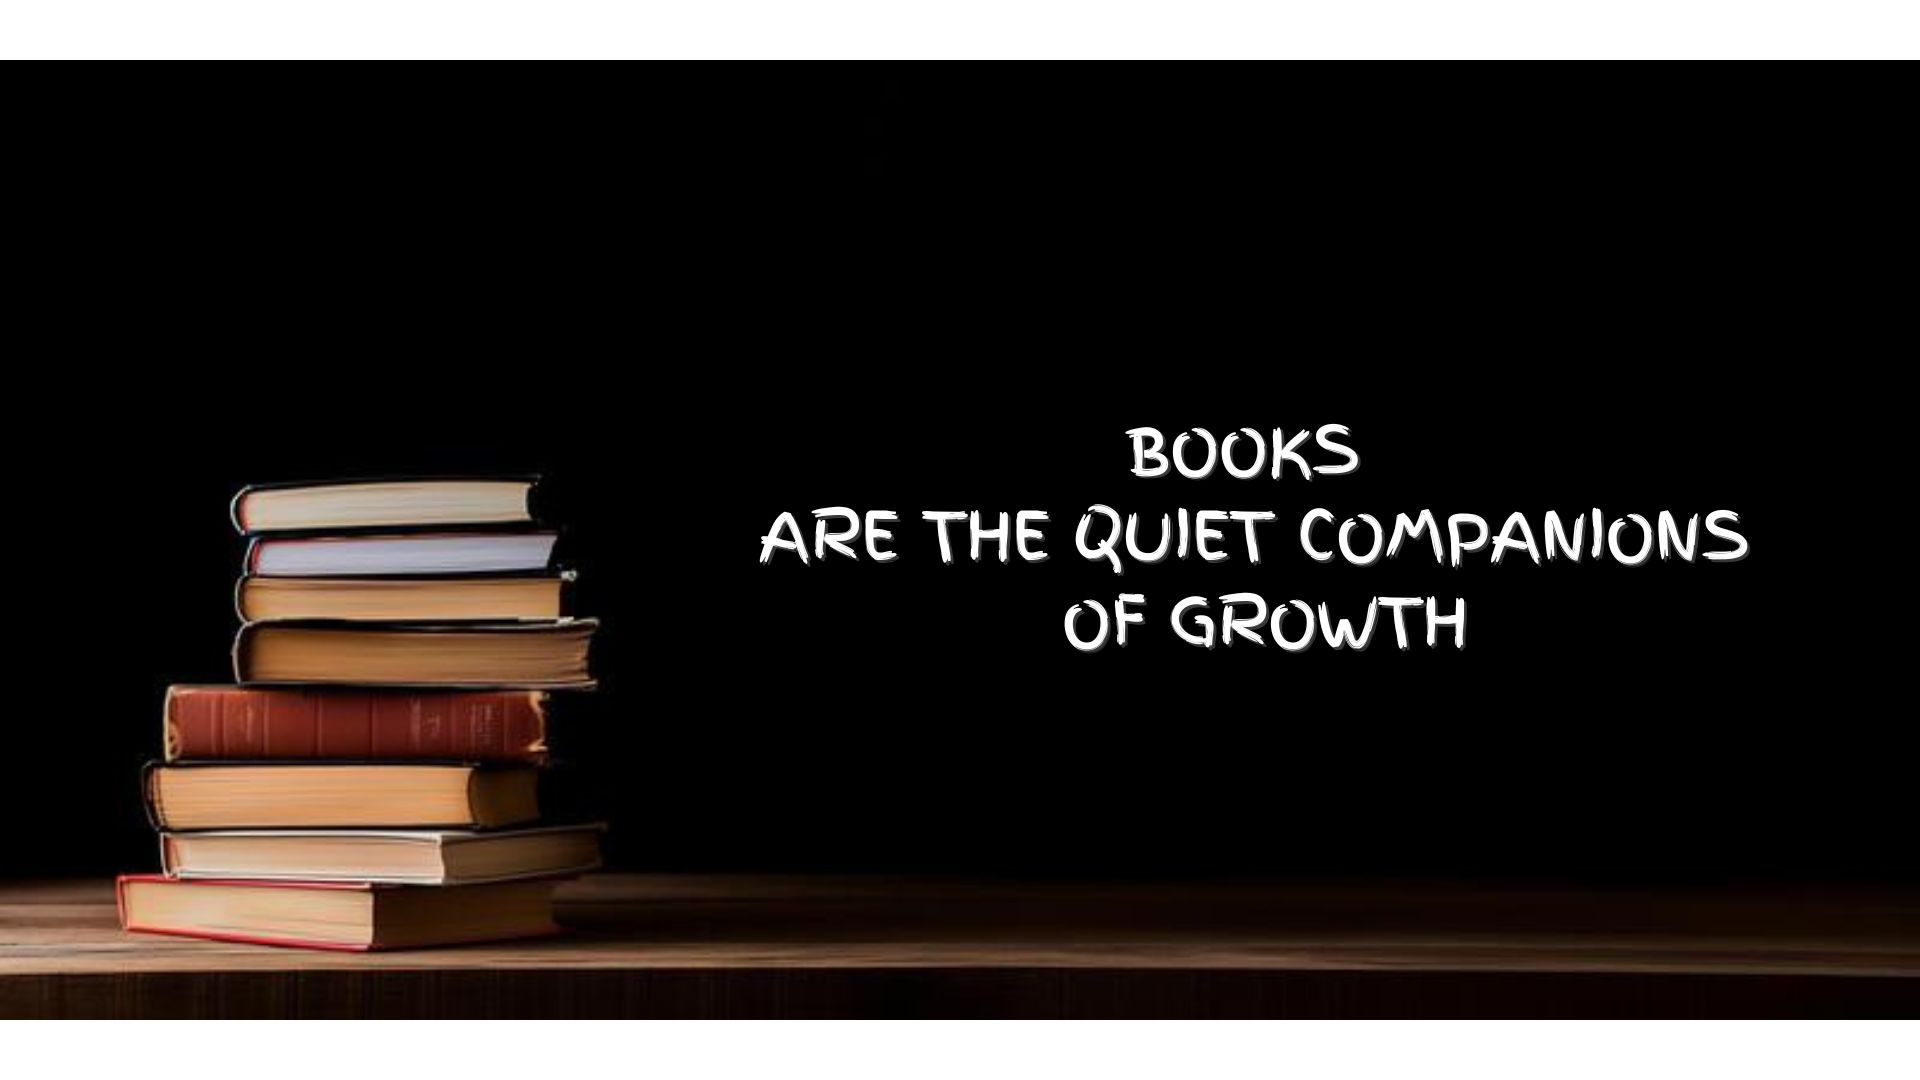
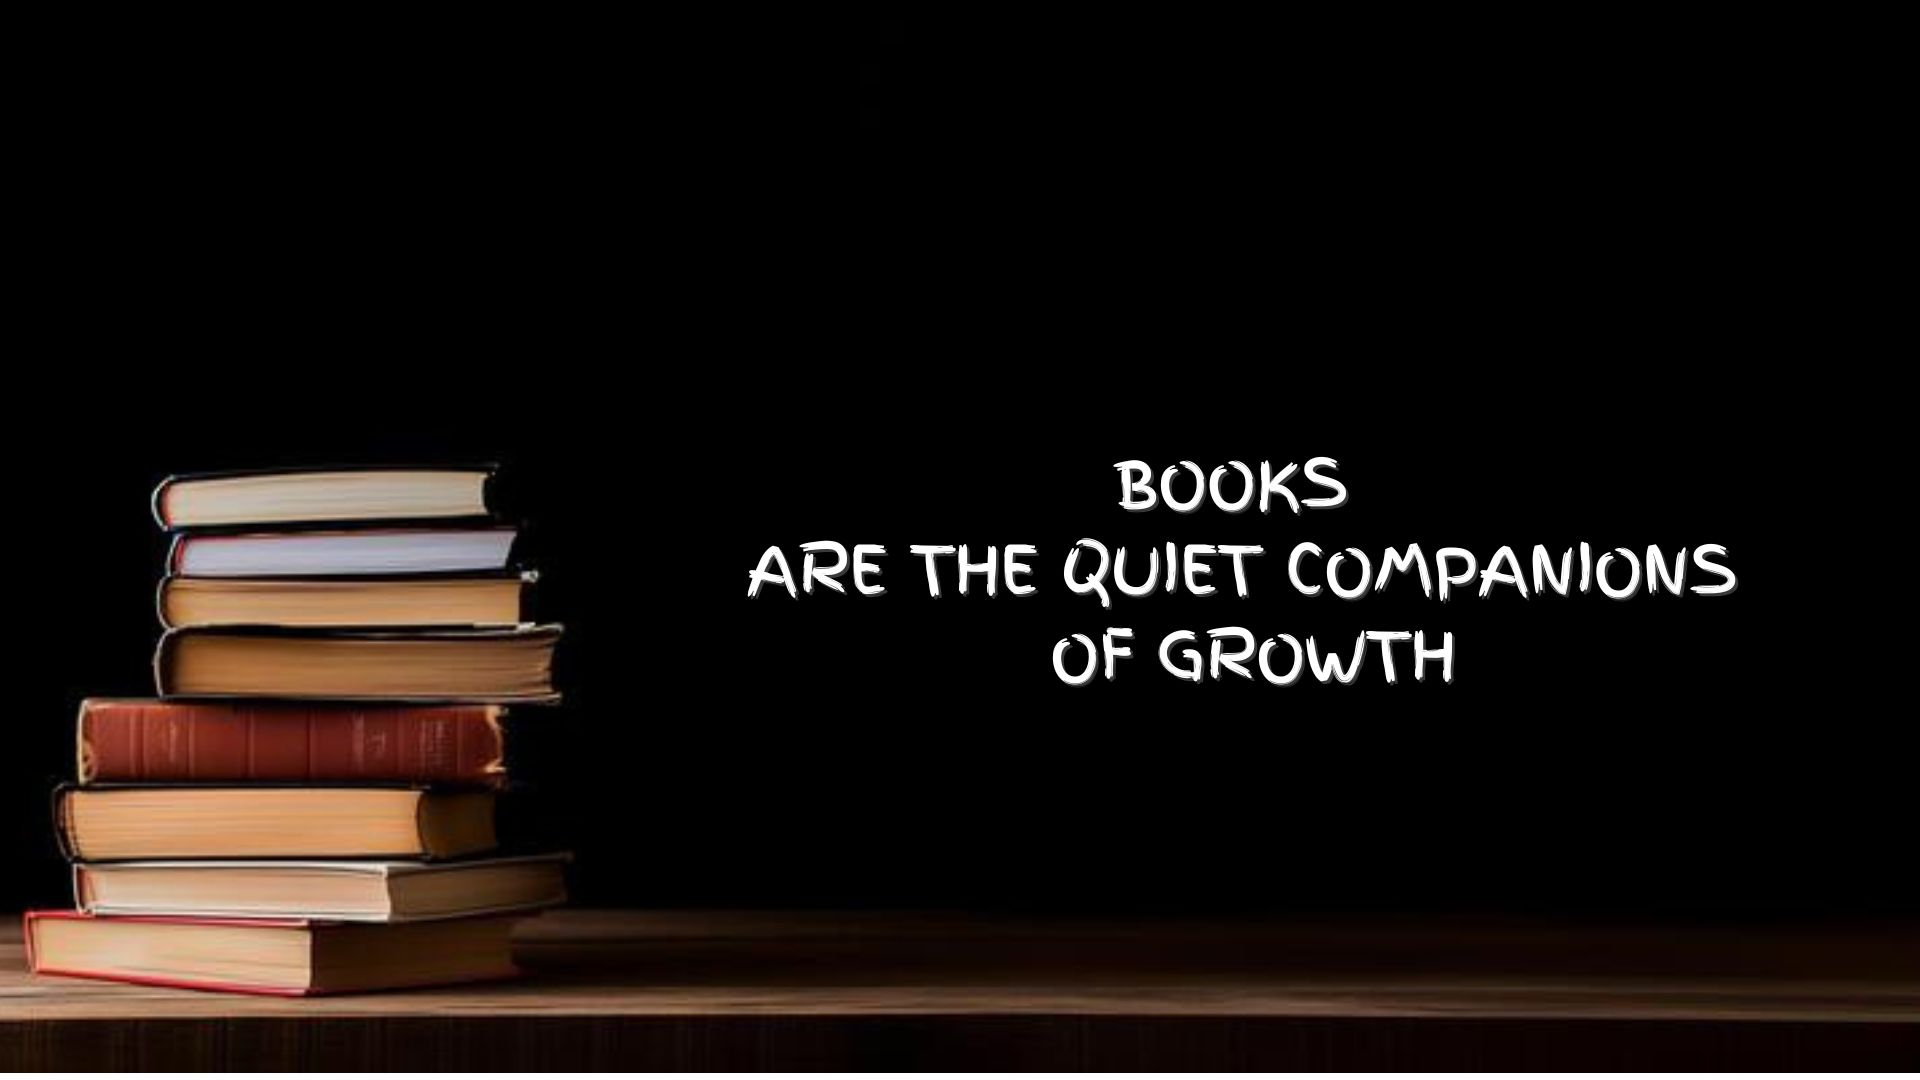
fourth commit

Changed region(s): [[0.0, 0.4278, 1.0, 1.0], [0.375, 0.3972, 0.9062, 0.6417], [0.0, 0.0, 1.0, 0.0611]]

diff --git a/src/pages/Home.tsx b/src/pages/Home.tsx
@@ -1,29 +1,32 @@
 function Home() {
-  
-
   return (
-   
-
-      <main className="flex flex-row bg-white mx-10 my-10 rounded-lg shadow-lg">
-        <div className="w-1/2 p-4">
-          <img
-            src="/rohit.jpeg"
-            alt="Rohit"
-            className="object-cover w-full h-full rounded-lg"
-          />
-        </div>
-        <section className="w-1/2 p-8">
-          <h2 className="text-classic-blue text-2xl font-bold mb-4">Welcome</h2>
-          <p className="text-classic-blue leading-relaxed">
-          Hello, I'm Rohit Upadhyay, a storyteller by passion, a writer at heart, and a firm believer in the transformational potential of language. Writing has always been my means of interacting with the outside world, from my earliest days of creating plays and dramas that vividly portrayed characters to crafting tales that explored the core of existence. 
-There have been difficulties along the way. My heart has always been in the free-flowing realm of creativity, even though I have an MBA in Health Management and have navigated the halls of structure and strategy. Writing is more than just filling pages; it's about giving people inspiration, hope, and meaning in their lives. 
-As a writer, I want my words to be like a friend's voice, offering consolation, direction, and occasionally a gentle prod to recognize the beauty in your tale. My relationship with each reader is as personal as my writing. Know that I wrote this with you in mind, whether your goal is to explore, think, or discover a different viewpoint.
-Greetings from my world, where stories are more than words; they are conduits for growth, healing, and understanding. 
-I’m so glad that you are here
-          </p>
-        </section>
-      </main> 
-        
+    <main className="flex flex-col md:flex-row bg-gradient-to-br from-gray-900 to-black mx-4 md:mx-10 my-10 rounded-lg shadow-lg overflow-hidden">
+      <div className="md:w-1/2">
+        <img
+          src="/rohit.jpeg"
+          alt="Rohit"
+          className="object-cover w-full h-full"
+        />
+      </div>
+      <section className="md:w-1/2 p-8 bg-white/10 backdrop-blur-md">
+        <h2 className="text-gold text-3xl font-bold mb-6">Welcome</h2>
+        <p className="text-gray-300 leading-relaxed mb-4">
+          Hello, I'm Rohit Upadhyay, a storyteller by passion, a writer at heart, and a firm believer in the transformational potential of language. Writing has always been my means of interacting with the outside world, from my earliest days of creating plays and dramas that vividly portrayed characters to crafting tales that explored the core of existence.
+        </p>
+        <p className="text-gray-300 leading-relaxed mb-4">
+          There have been difficulties along the way. My heart has always been in the free-flowing realm of creativity, even though I have an MBA in Health Management and have navigated the halls of structure and strategy. Writing is more than just filling pages; it's about giving people inspiration, hope, and meaning in their lives.
+        </p>
+        <p className="text-gray-300 leading-relaxed mb-4">
+          As a writer, I want my words to be like a friend's voice, offering consolation, direction, and occasionally a gentle prod to recognize the beauty in your tale. My relationship with each reader is as personal as my writing. Know that I wrote this with you in mind, whether your goal is to explore, think, or discover a different viewpoint.
+        </p>
+        <p className="text-gray-300 leading-relaxed mb-4">
+          Greetings from my world, where stories are more than words; they are conduits for growth, healing, and understanding. I’m so glad that you are here.
+        </p>
+        <p className="text-gray-300 leading-relaxed">
+          I’m so glad that you are here :)
+        </p>
+      </section>
+    </main>
   );
 }
 

diff --git a/src/pages/About.tsx b/src/pages/About.tsx
@@ -1,18 +1,27 @@
-
-
-const About=()=> {
+const About = () => {
   return (
-    <div className="min-h-screen bg-gray-100 py-10 px-6">
-      <h2 className="text-4xl font-bold text-center text-blue-900 mb-6">About Amitav Ghosh</h2>
-      <p className="max-w-3xl mx-auto text-lg leading-relaxed text-gray-700">
-      Hello, I'm Rohit Upadhyay, a storyteller by passion, a writer at heart, and a firm believer in the transformational potential of language. Writing has always been my means of interacting with the outside world, from my earliest days of creating plays and dramas that vividly portrayed characters to crafting tales that explored the core of existence. 
-There have been difficulties along the way. My heart has always been in the free-flowing realm of creativity, even though I have an MBA in Health Management and have navigated the halls of structure and strategy. Writing is more than just filling pages; it's about giving people inspiration, hope, and meaning in their lives. 
-As a writer, I want my words to be like a friend's voice, offering consolation, direction, and occasionally a gentle prod to recognize the beauty in your tale. My relationship with each reader is as personal as my writing. Know that I wrote this with you in mind, whether your goal is to explore, think, or discover a different viewpoint.
-Greetings from my world, where stories are more than words; they are conduits for growth, healing, and understanding. 
-I’m so glad that you are here
-      </p>
+    <div className="min-h-screen bg-gradient-to-br from-gray-900 to-black py-12 px-6 flex items-center justify-center">
+      <div className="max-w-4xl bg-white/10 backdrop-blur-md rounded-lg shadow-lg p-8">
+        <h2 className="text-4xl font-bold text-center text-gold mb-6">About Rohit</h2>
+        <p className="text-lg leading-relaxed text-gray-300 mb-4">
+          Hello, I'm Rohit Upadhyay, a storyteller by passion, a writer at heart, and a firm believer in the transformational potential of language. Writing has always been my means of interacting with the outside world, from my earliest days of creating plays and dramas that vividly portrayed characters to crafting tales that explored the core of existence.
+        </p>
+        <p className="text-lg leading-relaxed text-gray-300 mb-4">
+          There have been difficulties along the way. My heart has always been in the free-flowing realm of creativity, even though I have an MBA in Health Management and have navigated the halls of structure and strategy. Writing is more than just filling pages; it's about giving people inspiration, hope, and meaning in their lives.
+        </p>
+        <p className="text-lg leading-relaxed text-gray-300 mb-4">
+          As a writer, I want my words to be like a friend's voice, offering consolation, direction, and occasionally a gentle prod to recognize the beauty in your tale. My relationship with each reader is as personal as my writing. Know that I wrote this with you in mind, whether your goal is to explore, think, or discover a different viewpoint.
+        </p>
+        <p className="text-lg leading-relaxed text-gray-300">
+          Greetings from my world, where stories are more than words; they are conduits for growth, healing, and understanding. I’m so glad that you are here.
+        </p>
+        <br />
+        <p className="text-lg leading-relaxed text-gray-300">
+         I’m so glad that you are here :)
+        </p>
+      </div>
     </div>
   );
 }
 
-export default About;   
+export default About;

diff --git a/src/pages/Contact.tsx b/src/pages/Contact.tsx
@@ -154,9 +154,9 @@ function Contact() {
           <div className="space-y-8">
             <div className="bg-white/10 backdrop-blur-md rounded-lg shadow-xl p-8">
               <h2 className="text-3xl font-semibold text-gold mb-4">Literary Agent</h2>
-              <p className="text-gray-400 mb-2">John Smith</p>
-              <p className="text-gray-400 mb-2">Literary Agency Name</p>
-              <p className="text-gray-400 mb-2">agent@literaryagency.com</p>
+              <p className="text-gray-400 mb-1">At this time, I am not represented by a literary agent. <br />
+              For inquiries or collaboration opportunities. </p>
+              <p className="text-gray-400 mb-2">Please contact me directly at upadhyayr8171@gmail.com</p>
             </div>
 
             <div className="bg-white/10 backdrop-blur-md rounded-lg shadow-xl p-8">
@@ -195,7 +195,9 @@ function Contact() {
                 Location
               </h2>
               <p className="text-gray-400">
-                Based in Kolkata, India
+              Dwarka Sector 14, Bharat Vihar <br />
+              Som Bazar Road<br />
+              New Delhi, Delhi - 110078, India
               </p>
             </div>
           </div>

diff --git a/index.html b/index.html
@@ -3,10 +3,13 @@
   <head>
     <meta charset="UTF-8" />
     <meta property="og:site_name" content="Your Blog Name" />
-<meta property="og:type" content="article" />
-    <link rel="icon" type="image/svg+xml" href="/vite.svg" />
+    <meta property="og:type" content="article" />
+    <!-- <link rel="icon" type="image/svg+xml" href="/vite.svg" /> -->
+    <link rel="icon" type="image/png" href="/favicon.png" sizes="32x32" />
+    <link rel="icon" type="image/png" href="/favicon.png" sizes="16x16" />
+    <link rel="apple-touch-icon" href="/favicon.png" />
     <meta name="viewport" content="width=device-width, initial-scale=1.0" />
-    <title>Vite + React + TS</title>
+    <title>Rohit Upadhyay </title>
   </head>
   <body>
     <div id="root"></div>

diff --git a/src/pages/Layout.tsx b/src/pages/Layout.tsx
@@ -5,11 +5,11 @@ import { useAuth } from '../appwrite/auth';
 
 // Banner mapping
 const BANNER_MAPPING = {
-  '/': '/rohit.jpeg',
+  '/': '/home.png',
   '/about': '/about.png',
   '/blog': '/blogs.png',
   '/contact': '/contact.jpg',
-  '/pictures': '/downloadbanner2.jpeg',
+  '/pictures': '/pictures.jpeg',
   '/books': '/book.jpg',
   // '/awards': '/downloadbanner2.jpeg',
 };
